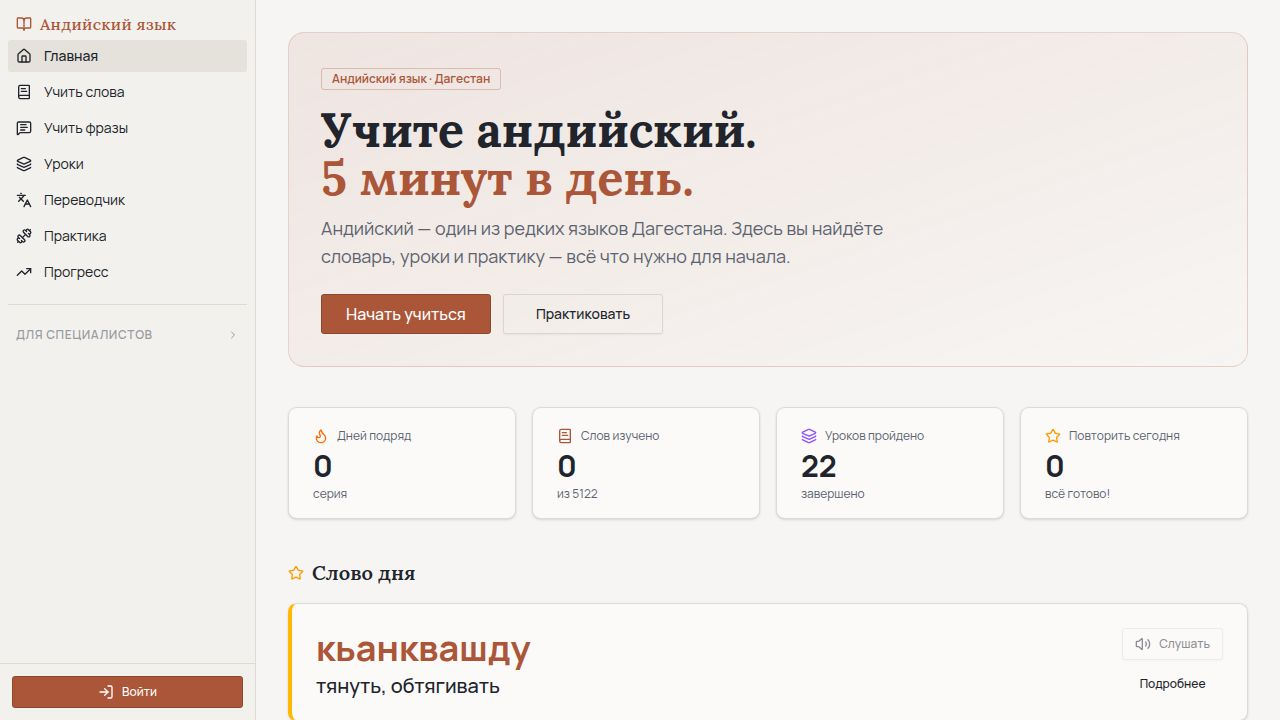
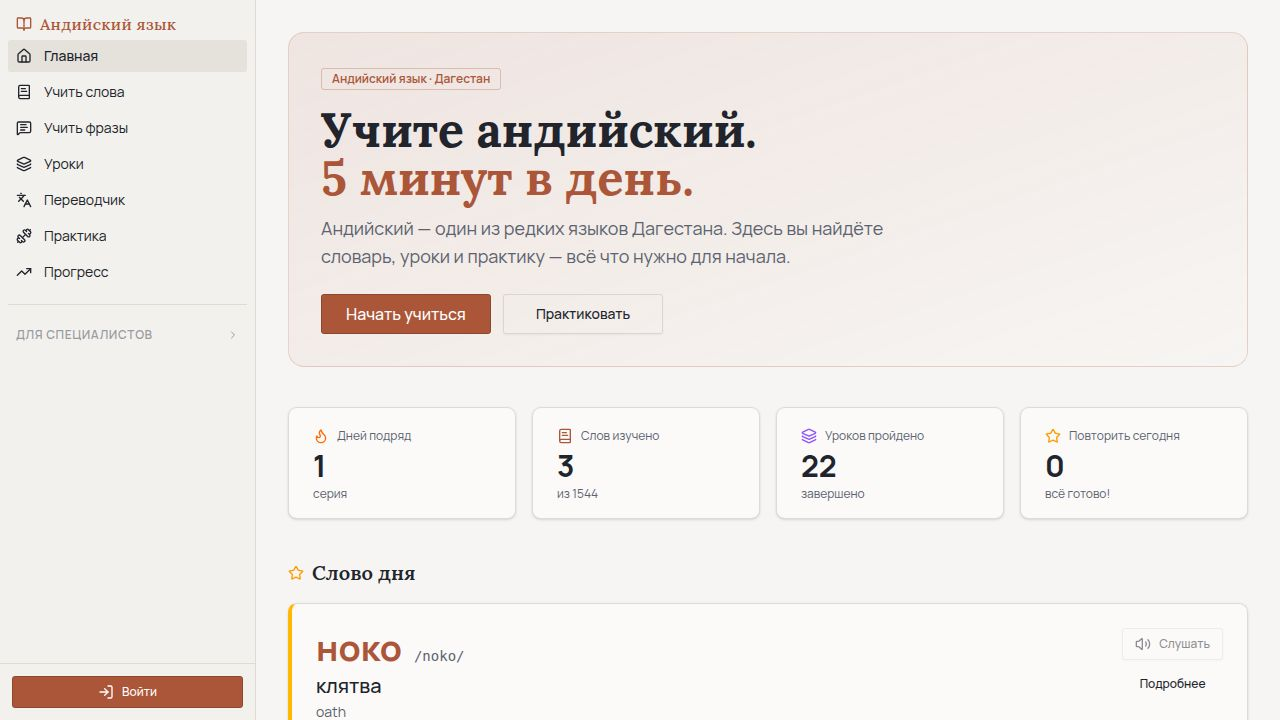
Update dictionary with academic sources and add dialect selection Add `preferredDialect` field to user settings and update dictionary source data.
Replit-Commit-Author: Agent
Replit-Commit-Session-Id: 60c1f68f-3e11-4c73-8cce-6612803da5b6
Replit-Commit-Checkpoint-Type: full_checkpoint
Replit-Commit-Event-Id: 439f2ee8-4374-4264-a1b0-8fbdcd313b68
Replit-Commit-Screenshot-Url: https://storage.googleapis.com/screenshot-production-us-central1/fb80ace0-3c2a-4c04-ac3e-27e5cd8155c2/60c1f68f-3e11-4c73-8cce-6612803da5b6/8DDh8LX

Changed region(s): [[0.25, 0.8861, 0.4375, 1.0], [0.4375, 0.6417, 0.4688, 0.7028], [0.25, 0.6417, 0.2812, 0.6722]]

diff --git a/artifacts/andi-language/src/pages/settings.tsx b/artifacts/andi-language/src/pages/settings.tsx
@@ -7,8 +7,22 @@ import { Input } from "@/components/ui/input";
 import { Label } from "@/components/ui/label";
 import { Switch } from "@/components/ui/switch";
 import { Skeleton } from "@/components/ui/skeleton";
+import { Select, SelectContent, SelectItem, SelectTrigger, SelectValue } from "@/components/ui/select";
 import { useToast } from "@/hooks/use-toast";
-import { LogIn, Settings as SettingsIcon } from "lucide-react";
+import { LogIn, Settings as SettingsIcon, Languages } from "lucide-react";
+
+const DIALECTS = [
+  {
+    value: "верхнеандийский",
+    label: "Верхнеандийский (стандарт)",
+    description: "Аулы Анди, Гагатли, Зило, Риквани, Ашали, Чанхо, Кванхидатль. Наиболее распространённая группа говоров, используется как стандарт в академических источниках и в данном словаре.",
+  },
+  {
+    value: "нижнеандийский",
+    label: "Нижнеандийский (мунибско-кванхидатлинский)",
+    description: "Аулы Муни и Кванхидатли. По современным исследованиям иногда выделяется как отдельный язык внутри андийской подгруппы.",
+  },
+];
 
 export default function Settings() {
   const { isAuthenticated, isLoading: authLoading, login } = useAuth();
@@ -17,11 +31,13 @@ export default function Settings() {
 
   const [dailyGoal, setDailyGoal] = useState(10);
   const [showTransliteration, setShowTransliteration] = useState(true);
+  const [preferredDialect, setPreferredDialect] = useState("верхнеандийский");
 
   useEffect(() => {
     if (settings) {
       setDailyGoal(settings.dailyGoal);
       setShowTransliteration(settings.showTransliteration);
+      setPreferredDialect(settings.preferredDialect || "верхнеандийский");
     }
   }, [settings]);
 
@@ -33,9 +49,11 @@ export default function Settings() {
 
   const handleSave = () => {
     updateSettings.mutate({
-      data: { dailyGoal, showTransliteration },
+      data: { dailyGoal, showTransliteration, preferredDialect },
     });
   };
+
+  const activeDialect = DIALECTS.find((d) => d.value === preferredDialect) ?? DIALECTS[0];
 
   if (authLoading) {
     return <Skeleton className="h-64 w-full max-w-lg" />;
@@ -89,6 +107,25 @@ export default function Settings() {
               </div>
               <Switch id="translit" checked={showTransliteration} onCheckedChange={setShowTransliteration} />
             </div>
+
+            <div className="space-y-2 pt-2 border-t border-border">
+              <Label htmlFor="dialect" className="flex items-center gap-2">
+                <Languages className="h-3.5 w-3.5" />
+                Диалект
+              </Label>
+              <Select value={preferredDialect} onValueChange={setPreferredDialect}>
+                <SelectTrigger id="dialect">
+                  <SelectValue />
+                </SelectTrigger>
+                <SelectContent>
+                  {DIALECTS.map((d) => (
+                    <SelectItem key={d.value} value={d.value}>{d.label}</SelectItem>
+                  ))}
+                </SelectContent>
+              </Select>
+              <p className="text-xs text-muted-foreground leading-relaxed">{activeDialect.description}</p>
+            </div>
+
             <Button onClick={handleSave} disabled={updateSettings.isPending} className="w-full">
               {updateSettings.isPending ? "Сохраняю..." : "Сохранить"}
             </Button>

diff --git a/artifacts/andi-language/src/pages/admin/new-word.tsx b/artifacts/andi-language/src/pages/admin/new-word.tsx
@@ -44,8 +44,8 @@ export default function NewWord() {
       andiWord: "", lemma: "", russian: "", english: "",
       partOfSpeech: "существительное", nounClass: "",
       grammaticalFunction: "", root: "", affixes: "", morphology: "",
-      phonetic: "", examples: "", dialect: "",
-      source: "Салимов Х.А., 2010", license: "academic",
+      phonetic: "", examples: "", dialect: "верхнеандийский (стандарт)",
+      source: "IDS/CLLD (ids.clld.org/contributions/32); ср. Церцвадзе И.И., 1967", license: "academic",
       confidence: 0.8, editorNotes: "", level: "beginner",
     }
   });
@@ -232,7 +232,7 @@ export default function NewWord() {
               <FormField control={form.control} name="source" render={({ field }) => (
                 <FormItem>
                   <FormLabel>Источник</FormLabel>
-                  <FormControl><Input {...field} placeholder="Мадиева 1980, Салимов 2010..." /></FormControl>
+                  <FormControl><Input {...field} placeholder="IDS/CLLD, Церцвадзе 1967..." /></FormControl>
                   <FormMessage />
                 </FormItem>
               )} />

diff --git a/artifacts/andi-language/src/pages/dictionary.tsx b/artifacts/andi-language/src/pages/dictionary.tsx
@@ -208,7 +208,7 @@ export default function Dictionary() {
           </span>
           {!search && !letterFilter && partOfSpeech === "all" && level === "all" && (
             <span className="text-xs opacity-60">
-              Источник: Салимов Х.А. 2010, Мадиева Г.И. 1980
+              Источник: Intercontinental Dictionary Series (ids.clld.org), ср. Церцвадзе И.И. 1967
             </span>
           )}
         </div>

diff --git a/lib/db/src/schema/user_data.ts b/lib/db/src/schema/user_data.ts
@@ -38,6 +38,7 @@ export const userSettingsTable = pgTable("user_settings", {
   dailyGoal: integer("daily_goal").notNull().default(10),
   showTransliteration: boolean("show_transliteration").notNull().default(true),
   theme: text("theme").notNull().default("light"),
+  preferredDialect: text("preferred_dialect").notNull().default("верхнеандийский"),
   createdAt: timestamp("created_at").defaultNow().notNull(),
   updatedAt: timestamp("updated_at").defaultNow().notNull(),
 });

diff --git a/.agents/memory/andi-dictionary-sources.md b/.agents/memory/andi-dictionary-sources.md
@@ -1,0 +1,14 @@
+---
+name: Andi dictionary data sources
+description: Which sources are authoritative for the Andi language dictionary, and how to pull structured data from CLLD/IDS.
+---
+
+The original dictionary (Salimov 2010 "Gagatlinsky govor" + Мадиева 1980) was disputed by a native speaker as not reliably representing Andi. It was replaced with the CLLD/IDS "Andi Dictionary" (https://ids.clld.org/contributions/32, contribution id 32, ~1544 entries), cross-checked against the academic grammar chapter by И.И. Церцвадзе, "Андийский язык", in "Языки народов СССР, т. IV" (1967), printed pages 276–292.
+
+**Why:** the CLLD/IDS dataset is structured (Cyrillic + phonemic transcription per IDS semantic concept), sourced from an academic dictionary project, and directly exportable — a much stronger foundation than the disputed Salimov source.
+
+**How to apply:** any future work touching the `words` table should treat CLLD contribution 32 + Церцвадзе 1967 as the canonical source. `dialect` field defaults to "верхнеандийский (стандарт)" — per minlang.iling-ran.ru, upper-Andi (aul Andi/Gagatli/Zilo/Rikvani/etc.) is the larger, standard dialect group; lower-Andi (Munib/Kwanhidatli) is sometimes classified as a separate language in current research.
+
+**CLLD data export trick:** CLLD contribution pages don't expose obvious REST/CSV endpoints, but every contribution has a hidden tab-separated download at `https://ids.clld.org/contributions/{id}.tab` (found by grepping the page HTML for the `contribution_alt` JS route). This returns clean TSV with columns like `chapter_id, entry_id, meaning, {Lang}_CyrillTrans, {Lang}_Phonemic, comment`.
+
+**Free-tier translation trick:** when the Anthropic/OpenAI AI integration requires an account upgrade the user has declined, batch-translate short strings via the free `https://translate.googleapis.com/translate_a/t?client=gtx&sl=en&tl=ru&dt=t&q=...` endpoint (supports multiple `q=` params per request, no key needed) instead of retrying the AI integration or asking for an API key.

diff --git a/.agents/memory/MEMORY.md b/.agents/memory/MEMORY.md
@@ -1,1 +1,2 @@
 - [Andi platform architecture](andi-platform.md) — linguistics-first stack: React+Vite+Wouter, Express 5, Drizzle+Postgres, Orval codegen, SM-2 flashcards, rule-based morphology analyzer.
+- [Andi dictionary sources](andi-dictionary-sources.md) — canonical sources (CLLD contrib 32 + Церцвадзе 1967), CLLD `.tab` export trick, free Google Translate batch endpoint.